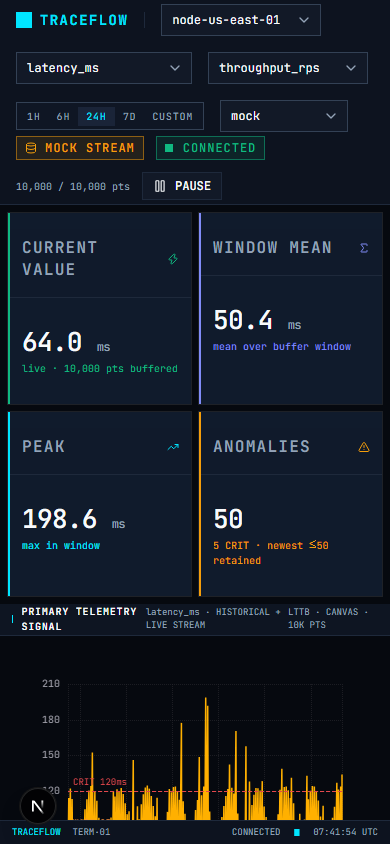
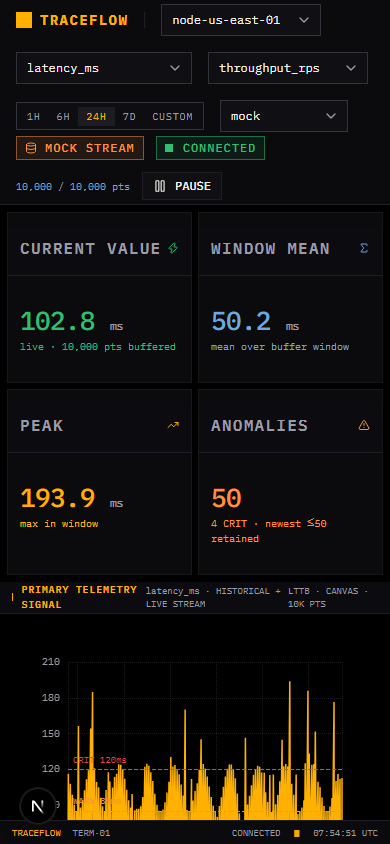
feat(ui): terminal typography + de-glow pass
- IBM Plex Sans/Mono replaces Inter/JetBrains (AI-default font pair)
- flat line traces — gradient fills removed; caret-blink replaces ping halo
- KPI values carry signal color; accent borders dropped; panel titles amber
- assets regenerated (hero/mobile/zoom/og/gif)

Closes ISSUE-014

diff --git a/src/components/dashboard/KpiCards.tsx b/src/components/dashboard/KpiCards.tsx
@@ -21,7 +21,7 @@ export function KpiCards({ stats, unit, isLoading }: KpiCardsProps) {
   const cards = [
     {
       title: 'Current Value',
-      accent: 'border-l-live',
+      valueClass: 'text-live',
       icon: <Zap aria-hidden className="h-3 w-3 text-live" />,
       value: isLoading ? '--' : fmt(stats.last),
       unit,
@@ -30,7 +30,7 @@ export function KpiCards({ stats, unit, isLoading }: KpiCardsProps) {
     },
     {
       title: 'Window Mean',
-      accent: 'border-l-secondary',
+      valueClass: 'text-secondary',
       icon: <Sigma aria-hidden className="h-3 w-3 text-secondary" />,
       value: isLoading ? '--' : fmt(stats.count > 0 ? stats.avg : null),
       unit,
@@ -39,7 +39,7 @@ export function KpiCards({ stats, unit, isLoading }: KpiCardsProps) {
     },
     {
       title: 'Peak',
-      accent: 'border-l-primary',
+      valueClass: 'text-primary',
       icon: <TrendingUp aria-hidden className="h-3 w-3 text-primary" />,
       value: isLoading ? '--' : fmt(stats.count > 0 ? stats.max : null),
       unit,
@@ -48,7 +48,7 @@ export function KpiCards({ stats, unit, isLoading }: KpiCardsProps) {
     },
     {
       title: 'Anomalies',
-      accent: 'border-l-warn',
+      valueClass: 'text-warn',
       icon: <AlertTriangle aria-hidden className="h-3 w-3 text-warn" />,
       value: isLoading ? '--' : stats.anomalies.length.toLocaleString(),
       unit: '',
@@ -60,7 +60,7 @@ export function KpiCards({ stats, unit, isLoading }: KpiCardsProps) {
   return (
     <div className="grid shrink-0 grid-cols-2 gap-2 p-2 md:grid-cols-4 md:gap-3 md:p-3">
       {cards.map((c) => (
-        <Card key={c.title} className={`rounded-none border-border border-l-2 bg-raised shadow-none ${c.accent}`}>
+        <Card key={c.title} className="rounded-none border-border bg-card shadow-none">
           <CardHeader className="flex flex-row items-center justify-between border-b border-border bg-muted/30 px-3 py-2">
             <CardTitle className="font-mono text-mini font-semibold uppercase tracking-[0.08em] text-muted-foreground">
               {c.title}
@@ -71,7 +71,7 @@ export function KpiCards({ stats, unit, isLoading }: KpiCardsProps) {
             {isLoading ? (
               <Skeleton className="h-8 w-24 rounded-none" />
             ) : (
-              <div className={`font-mono text-value leading-8 font-medium tracking-tight ${c.value === '--' ? 'text-dim' : 'text-foreground'}`}>
+              <div className={`font-mono text-value leading-8 font-medium tracking-tight ${c.value === '--' ? 'text-dim' : c.valueClass}`}>
                 {c.value} <span className="text-xs text-muted-foreground">{c.unit}</span>
               </div>
             )}

diff --git a/src/components/dashboard/PrimaryTelemetryChart.tsx b/src/components/dashboard/PrimaryTelemetryChart.tsx
@@ -69,15 +69,6 @@ export function PrimaryTelemetryChart({ chartRef, metric, thresholdWarning, thre
           animation: false,
           lineStyle: { color: CHART_COLORS.accent, width: 1.5 },
           itemStyle: { color: CHART_COLORS.accent },
-          areaStyle: {
-            color: {
-              type: 'linear', x: 0, y: 0, x2: 0, y2: 1,
-              colorStops: [
-                { offset: 0, color: 'rgba(255, 176, 0, 0.14)' },
-                { offset: 1, color: 'rgba(255, 176, 0, 0)' },
-              ],
-            },
-          },
           ...(markLineData.length > 0 && {
             markLine: {
               silent: true,
@@ -96,7 +87,7 @@ export function PrimaryTelemetryChart({ chartRef, metric, thresholdWarning, thre
       <div className="flex h-8 items-center justify-between border-b border-border bg-muted/30 px-3">
         <div className="flex items-center gap-2">
           <span className="h-2 w-0.5 bg-primary" />
-          <span className="font-mono text-mini font-semibold uppercase tracking-[0.08em] text-foreground">Primary Telemetry Signal</span>
+          <span className="font-mono text-mini font-semibold uppercase tracking-[0.08em] text-primary">Primary Telemetry Signal</span>
           <span className="font-mono text-micro text-muted-foreground">{metric} · HISTORICAL + LIVE STREAM</span>
         </div>
         <div className="font-mono text-micro text-muted-foreground">LTTB · CANVAS · 10K PTS</div>

diff --git a/src/components/dashboard/SyncedCorrelationChart.tsx b/src/components/dashboard/SyncedCorrelationChart.tsx
@@ -53,15 +53,6 @@ export function SyncedCorrelationChart({ chartRef, metric, status }: SyncedCorre
         animation: false,
         lineStyle: { color: CHART_COLORS.secondary, width: 1.2 },
         itemStyle: { color: CHART_COLORS.secondary },
-        areaStyle: {
-          color: {
-            type: 'linear', x: 0, y: 0, x2: 0, y2: 1,
-            colorStops: [
-              { offset: 0, color: 'rgba(111, 168, 220, 0.16)' },
-              { offset: 1, color: 'rgba(111, 168, 220, 0)' },
-            ],
-          },
-        },
         data: [],
       },
     ],
@@ -72,7 +63,7 @@ export function SyncedCorrelationChart({ chartRef, metric, status }: SyncedCorre
       <div className="flex h-8 items-center justify-between border-b border-border bg-muted/30 px-3">
         <div className="flex items-center gap-2">
           <span className="h-2 w-0.5 bg-secondary" />
-          <span className="font-mono text-mini font-semibold uppercase tracking-[0.08em] text-foreground">Correlation Chart</span>
+          <span className="font-mono text-mini font-semibold uppercase tracking-[0.08em] text-primary">Correlation Chart</span>
           <span className="font-mono text-micro text-muted-foreground">{metric} · SYNCED CROSSHAIR</span>
         </div>
         <div className="font-mono text-micro uppercase text-muted-foreground">{status}</div>

diff --git a/src/app/layout.tsx b/src/app/layout.tsx
@@ -1,16 +1,18 @@
 import type { Metadata } from "next";
-import { Inter, JetBrains_Mono } from "next/font/google";
+import { IBM_Plex_Sans, IBM_Plex_Mono } from "next/font/google";
 import "./globals.css";
 import { TooltipProvider } from "@/components/ui/tooltip";
 import { Providers } from "@/components/providers";
 
-const inter = Inter({
+const plexSans = IBM_Plex_Sans({
   variable: "--font-inter",
+  weight: ["400", "500", "600", "700"],
   subsets: ["latin"],
 });
 
-const jetbrainsMono = JetBrains_Mono({
+const plexMono = IBM_Plex_Mono({
   variable: "--font-jetbrains-mono",
+  weight: ["400", "500", "600", "700"],
   subsets: ["latin"],
 });
 
@@ -29,7 +31,7 @@ export default function RootLayout({ children }: { children: React.ReactNode }) 
   return (
     <html
       lang="en"
-      className={`${inter.variable} ${jetbrainsMono.variable} dark h-full antialiased`}
+      className={`${plexSans.variable} ${plexMono.variable} dark h-full antialiased`}
     >
       <body className="min-h-full flex flex-col bg-background">
         <TooltipProvider>

diff --git a/src/components/dashboard/AnomalyStreamTable.tsx b/src/components/dashboard/AnomalyStreamTable.tsx
@@ -33,7 +33,7 @@ export function AnomalyStreamTable({ anomalies, siteId, unit, status, onInspect 
       <div className="flex h-8 items-center justify-between border-b border-border bg-muted/30 px-3">
         <div className="flex items-center gap-2">
           <span className="h-2 w-0.5 bg-warn" />
-          <span className="font-mono text-mini font-semibold uppercase tracking-[0.08em] text-foreground">Anomaly & Trace Inspector</span>
+          <span className="font-mono text-mini font-semibold uppercase tracking-[0.08em] text-primary">Anomaly & Trace Inspector</span>
         </div>
         <div className="font-mono text-micro text-muted-foreground">LIVE FEED · {anomalies.length} EVENTS</div>
       </div>

diff --git a/src/app/globals.css b/src/app/globals.css
@@ -92,3 +92,15 @@
     @apply tabular-nums;
   }
 }
+
+/* Terminal caret — hard step blink, not a smooth fade (ISSUE-014). */
+@keyframes caret-blink {
+  0%, 49% { opacity: 1; }
+  50%, 100% { opacity: 0; }
+}
+.animate-caret {
+  animation: caret-blink 1.1s steps(1) infinite;
+}
+@media (prefers-reduced-motion: reduce) {
+  .animate-caret { animation: none; }
+}

diff --git a/src/lib/chart-theme.ts b/src/lib/chart-theme.ts
@@ -17,4 +17,4 @@ export const CHART_COLORS = {
   crit: '#E5484D',
 } as const;
 
-export const CHART_FONT = 'JetBrains Mono';
+export const CHART_FONT = 'IBM Plex Mono';

diff --git a/docs/issues/014-terminal-typography-glow.md b/docs/issues/014-terminal-typography-glow.md
@@ -1,0 +1,24 @@
+# ISSUE-014 — terminal typography + de-glow pass
+
+**Status:** 🟢 Done
+**Branch:** `fix/issue-014-terminal-type`
+**Found by:** user feedback — after ISSUE-013 the palette read terminal, but the *typeface pair, uniform card borders, and glow effects* still read "AI dashboard".
+
+## Findings → fixes
+
+| # | Remaining AI tell | Fix |
+|---|---|---|
+| 1 | **Inter + JetBrains Mono** — the canonical AI-dashboard font pair | **IBM Plex Sans + IBM Plex Mono** (`next/font`, weights 400–700). Plex carries real terminal heritage (IBM 3270 lineage) — slashed zero, technical digit shapes |
+| 2 | **Gradient area fills** under both traces — neon SaaS glow | Removed entirely; traces render as flat lines (the oscilloscope look) |
+| 3 | **`animate-ping`** halo on the live badge — SaaS flourish | Hard-step terminal caret: `@keyframes caret-blink` (`steps(1)`, 1.1s, `prefers-reduced-motion` safe) on a `●` char; same caret drives the wordmark `▮` and status-bar cursor |
+| 4 | **Identical KPI cards with `border-l-2` accents** — template card grid | Dropped the left accent + raised surface; **signal color now lives on the value itself** (Bloomberg convention: numbers carry the semantics). Cards stay flat hairlines |
+| 5 | Panel titles neutral white | Titles render in **brand amber** — terminal section-header convention |
+
+## Follow-on assets
+
+`hero.png`, `mobile.png`, `zoom-inspect.png`, `opengraph-image.png`, `live-demo.gif` regenerated (flat traces + Plex); `e2e` unchanged; `chart-theme.ts` font mirror updated to `IBM Plex Mono`.
+
+## Verification
+
+- lint / typecheck / vitest 29 / playwright 3 / production build — all green
+- Screenshot 1600×950 verified: flat amber trace, signal-colored KPI numerals, amber panel titles, caret blinking

diff --git a/docs/issues/README.md b/docs/issues/README.md
@@ -18,6 +18,7 @@ files live in this directory, and status is mirrored here and in `CHANGELOG.md`.
 | [ISSUE-011](011-design-system-completeness.md) | Spec gaps: accent tier, untokenized type scale, blanket mono tracking, dead tooltip | Low | 🟢 Done | `fix/issue-011-design-tokens` |
 | [ISSUE-012](012-a11y-edge-polish.md) | a11y names/hidden icons, dim-contrast misuse, stale-series flash, loose URL params | Low | 🟢 Done | `fix/issue-012-a11y-edge` |
 | [ISSUE-013](013-terminal-redesign.md) | Redesign: navy/cyan AI-look → ops-terminal direction (black canvas, amber chrome, status line) | Medium | 🟢 Done | `fix/issue-013-terminal-redesign` |
+| [ISSUE-014](014-terminal-typography-glow.md) | De-AI pass 2: Plex type, flat traces, caret blink, signal-colored KPI values | Low | 🟢 Done | `fix/issue-014-terminal-type` |
 
 **Status legend:** 🔵 Open · 🟡 In progress · 🟢 Done (merged) · ⚪ Won't fix
 

diff --git a/CHANGELOG.md b/CHANGELOG.md
@@ -6,6 +6,16 @@ versioning follows SemVer.
 ## [Unreleased]
 
 ### Changed
+- Typefaces swapped Inter/JetBrains Mono → **IBM Plex Sans/Mono** (terminal
+  heritage digit shapes) (ISSUE-014)
+- Chart traces render as flat lines — gradient glow fills removed; live
+  indicator uses a hard-step caret blink instead of the SaaS ping halo
+  (ISSUE-014)
+- KPI values carry their signal color directly (Bloomberg convention);
+  left accent borders and raised surfaces dropped; panel titles render in
+  brand amber (ISSUE-014)
+
+### Fixed
 - **Terminal redesign (ISSUE-013):** palette moved from navy + neon cyan to
   true-black canvas, warm-neutral zinc surface tiers, amber `#FFB000`
   chrome/trace, steel-blue correlation, orange warn, warm ivory text —
